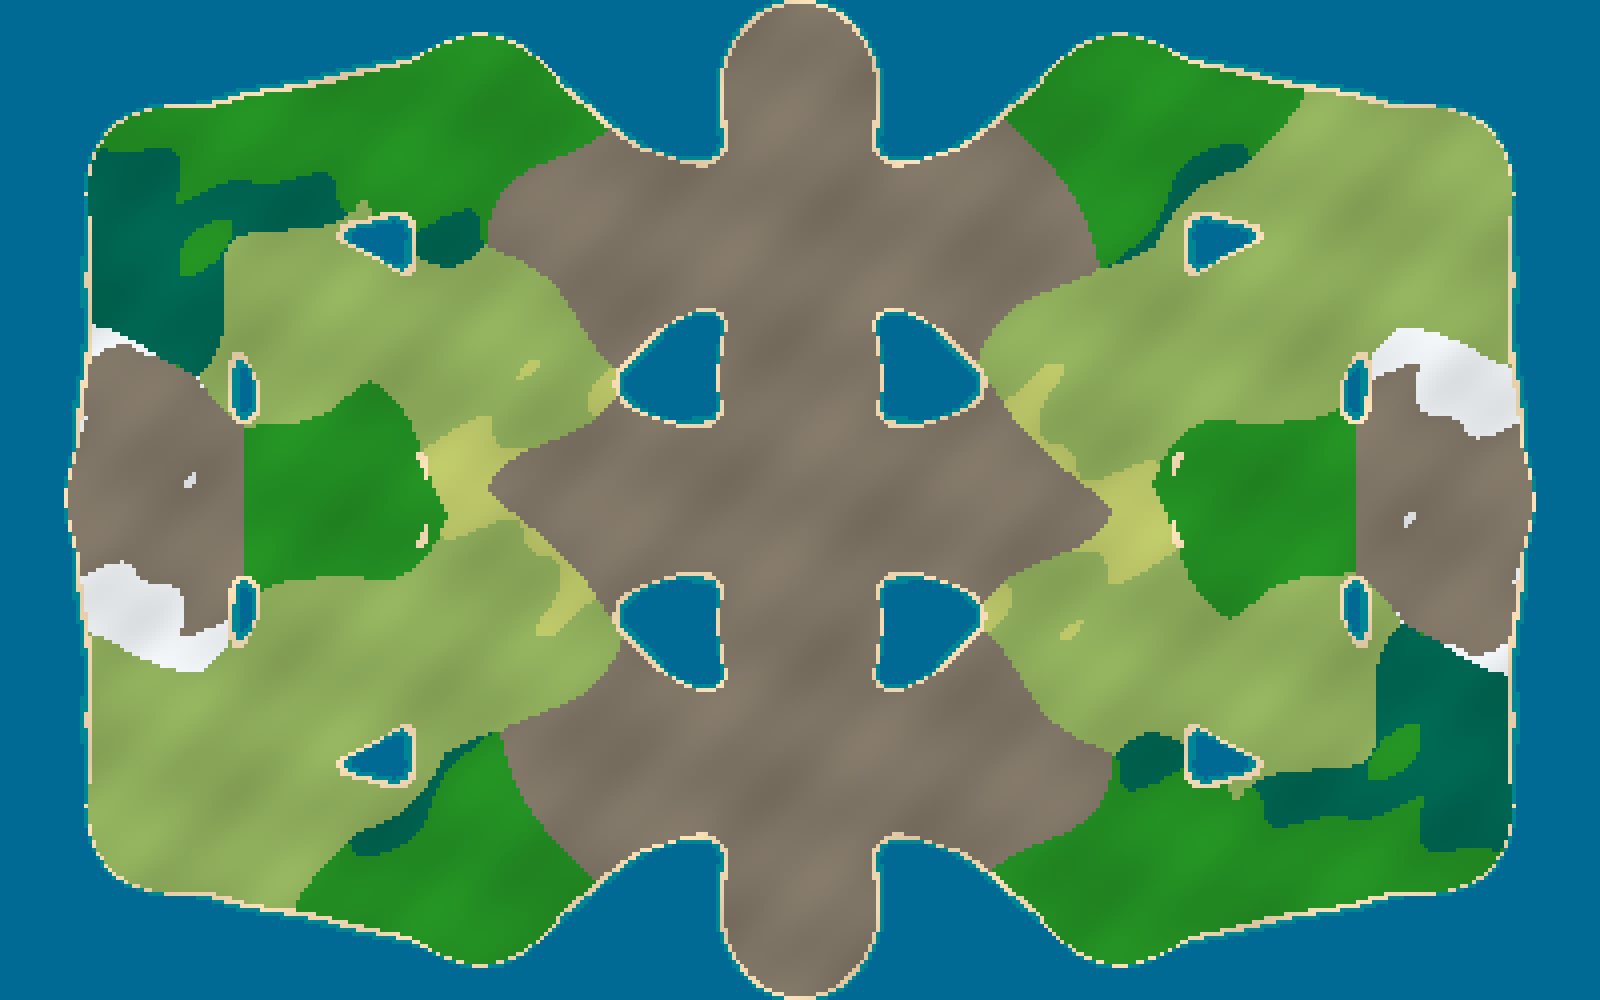
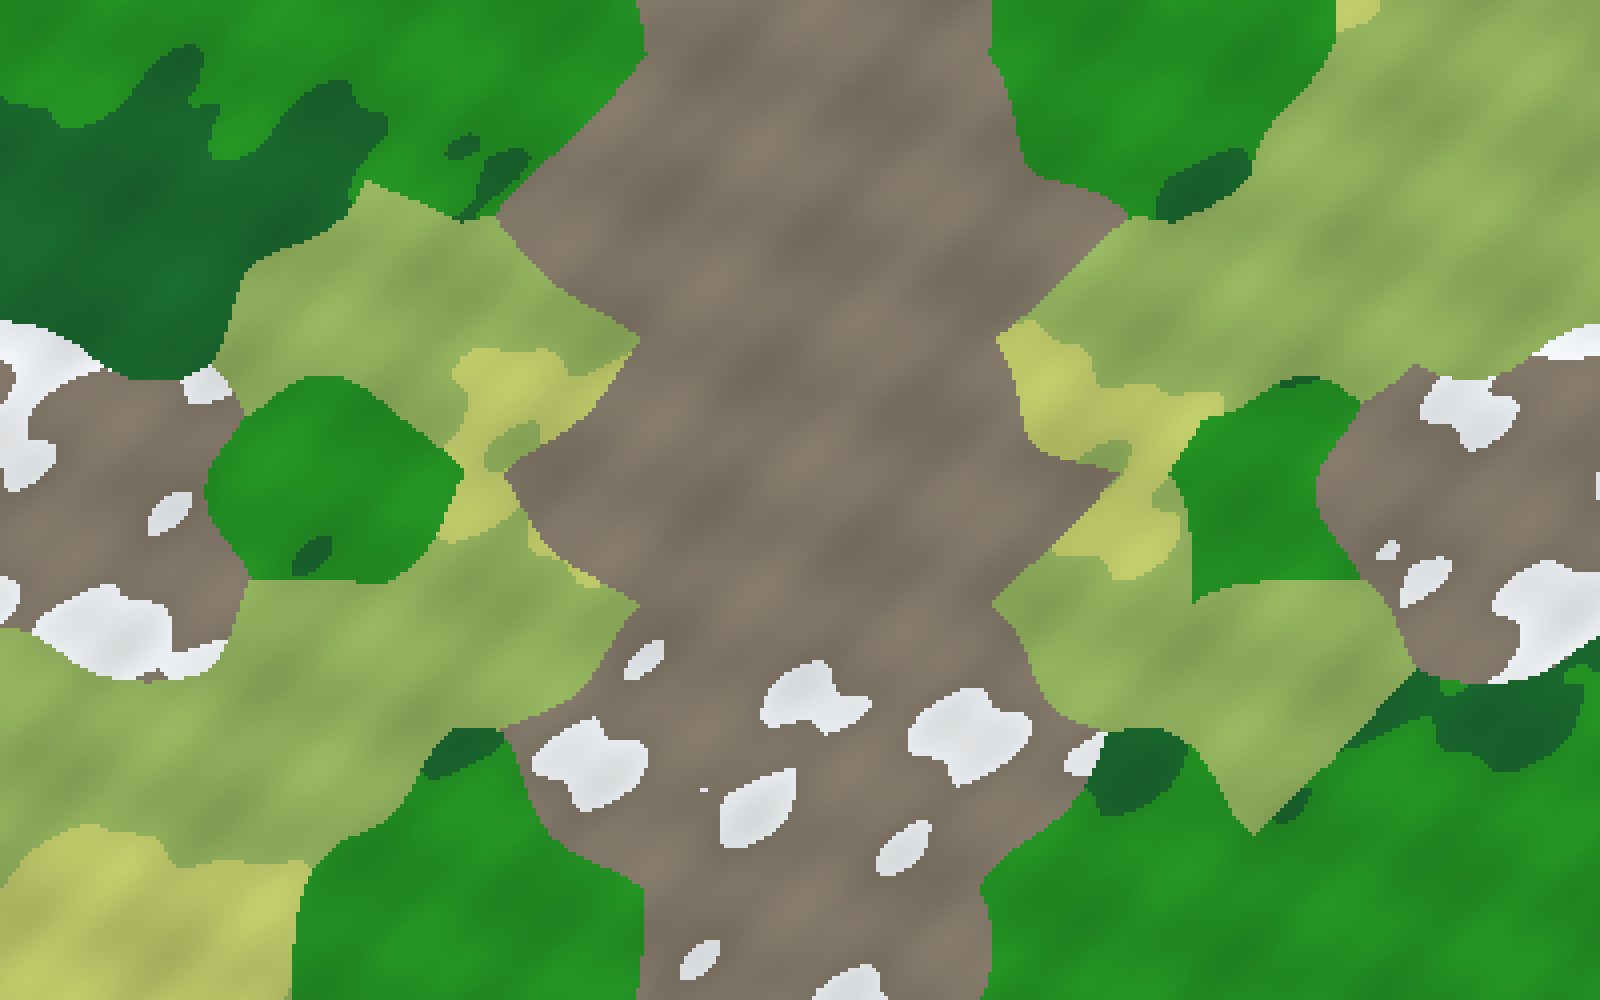
fix(maps): bake backgrounds without water; bundle baked backgrounds into the Docker client build (#269)

diff --git a/tools/maps/src/gow_maps/bake.py b/tools/maps/src/gow_maps/bake.py
@@ -1,14 +1,11 @@
 """Map background baker (MAP-05): ``maps/<id>.json`` -> ``maps/<id>.bg.png``.
 
-Formulas ported from the Pygame prototype map generator (git tag ``v0-pygame-prototype``,
-path ``rts_core/game_logic/World/MapGenerator.py``):
-
-- land is a metaball field: every city and every road adds density inside ``INFLUENCE_RADIUS``,
-  a cell is sea where the density plus a wave noise stays below a density-dependent threshold;
-- a thin band above the threshold is the shore;
-- the prototype temperature/moisture climate is replaced by the terrain of the nearest city
-  (Voronoi area of the node): plains, forest, mountains. The prototype moisture and detail noise
-  only pick a variant inside that terrain and shade it.
+Colours and noise formulas come from the Pygame prototype map generator (git tag
+``v0-pygame-prototype``, path ``rts_core/game_logic/World/MapGenerator.py``). There is no water
+(DEC-27, item 3: the owner finds it confusing): every cell is land. The biome comes from the
+terrain of the nearest city (Voronoi area of the node, borders warped so they are not straight):
+plains, forest, mountains. The prototype moisture and detail noise only pick a variant inside that
+terrain (steppe or savanna, forest or jungle, rock or snow) and shade it.
 
 The picture covers exactly the world rectangle ``[0, width] x [0, height]`` at one pixel per world
 unit, so the client stretches nothing: the sprite sits at ``(0, 0)`` with the map's own size.
@@ -16,9 +13,9 @@ The field is sampled on a ``STEP`` grid (as in the prototype) and every cell is 
 ``STEP x STEP`` block.
 
 The result is deterministic: noise offsets come from ``random.Random`` seeded by the map name and
-version (or an explicit seed), and the second half of the picture is the first half turned by
-180 degrees, the same symmetry as the map itself. The PNG is written with the standard library
-(zlib), no image library is needed.
+version (or an explicit seed). The picture is not required to be symmetric (DEC-27, item 1): every
+cell looks up its own nearest node. The PNG is written with the standard library (zlib), no image
+library is needed.
 """
 
 import hashlib
@@ -26,7 +23,6 @@ import math
 import random
 import struct
 import zlib
-from collections.abc import Callable
 from dataclasses import dataclass
 from enum import StrEnum
 from pathlib import Path
@@ -34,19 +30,11 @@ from pathlib import Path
 from gow_sim.maps import MapDef, Terrain
 
 STEP = 4  # world units per sampled cell (prototype MapGenerator.STEP)
-INFLUENCE_RADIUS = 95.0  # prototype MapGenerator.INFLUENCE_RADIUS
-LAND_THRESHOLD = 0.15  # prototype MapGenerator.LAND_THRESHOLD
-SHORE_BAND = 0.05  # prototype: total density below LAND_THRESHOLD + 0.05 is the shore
-SHALLOW_BAND = 0.06  # sea this close to the threshold is drawn as shallow water
-NODE_WEIGHT = 0.35  # prototype: a city adds 0.35 of a road's density
 SNOW_MOISTURE = 0.7  # mountain cells this moist are snow (prototype: cold and moist is snow)
 WARP = 40.0  # world units: how far the borders between node areas wander
 
 
 class Biome(StrEnum):
-    DEEP_SEA = "deep_sea"
-    SHALLOW_SEA = "shallow_sea"
-    BEACH = "beach"
     STEPPE = "steppe"
     SAVANNA = "savanna"
     FOREST = "forest"
@@ -57,18 +45,15 @@ class Biome(StrEnum):
 
 # Prototype palette (rts_core/system/ChunkManager.py) where a prototype biome fits.
 BIOME_COLOUR: dict[Biome, tuple[int, int, int]] = {
-    Biome.DEEP_SEA: (0, 105, 148),
-    Biome.SHALLOW_SEA: (0, 133, 148),
-    Biome.BEACH: (238, 214, 175),
     Biome.STEPPE: (140, 170, 90),
     Biome.SAVANNA: (180, 190, 100),
     Biome.FOREST: (34, 139, 34),
-    Biome.JUNGLE: (0, 100, 80),
+    Biome.JUNGLE: (25, 100, 45),  # prototype (0, 100, 80) is teal and reads as water (DEC-27)
     Biome.ROCK: (125, 115, 100),
     Biome.SNOW: (235, 238, 240),
 }
 
-# Land biomes each terrain may produce; the shore (BEACH) belongs to every terrain.
+# Land biomes each terrain may produce.
 TERRAIN_BIOMES: dict[Terrain, frozenset[Biome]] = {
     Terrain.PLAINS: frozenset({Biome.STEPPE, Biome.SAVANNA}),
     Terrain.FOREST: frozenset({Biome.FOREST, Biome.JUNGLE}),
@@ -84,58 +69,31 @@ class Cell:
 
 @dataclass(frozen=True, slots=True)
 class _Noise:
-    """Prototype noise fields, made continuous across the rot180 seam of the picture.
+    """Prototype noise fields; ``x`` and ``y`` are the random offsets of the map."""
 
-    The picture is mirrored at its centre, so a raw noise field would jump there. Every field is
-    averaged with its own rot180 image (``symmetric``); the terrain warp is antisymmetric
-    instead, so a point and its mirror look up mirrored nodes.
-    """
-
-    island: float
     x: float
     y: float
-    width: int
-    height: int
 
-    def _wave(self, x: float, y: float) -> float:
-        return math.sin(x * 0.04 + self.island) * math.cos(y * 0.04 - self.island) * 0.04
-
-    def _detail(self, x: float, y: float) -> float:
+    def detail(self, x: float, y: float) -> float:
         return (
             math.sin(x * 0.035 + y * 0.015 + self.x) * 0.4
             + math.cos(x * 0.012 - y * 0.042 + self.y) * 0.4
             + math.sin((x + y) * 0.071) * 0.2
         ) * 0.18
 
-    def _moisture(self, x: float, y: float) -> float:
+    def moisture(self, x: float, y: float) -> float:
         mx = self.x + 3700
         base = (
             math.cos(x * 0.004 + mx) * math.sin(y * 0.004 + self.y) * 0.65
             + math.cos(y * 0.013 + self.y) * 0.35
         )
-        return (base + 1.0) / 2.0 - self._detail(x, y)
-
-    def _warp(self, x: float, y: float) -> tuple[float, float]:
-        return (
-            math.sin(y * 0.021 + self.x) * math.cos(x * 0.017 - self.y),
-            math.cos(x * 0.019 + self.y) * math.sin(y * 0.023 - self.x),
-        )
-
-    def _symmetric(self, field: Callable[[float, float], float], x: float, y: float) -> float:
-        return (field(x, y) + field(self.width - x, self.height - y)) / 2
-
-    def wave(self, x: float, y: float) -> float:
-        return self._symmetric(self._wave, x, y)
-
-    def detail(self, x: float, y: float) -> float:
-        return self._symmetric(self._detail, x, y)
-
-    def moisture(self, x: float, y: float) -> float:
-        return self._symmetric(self._moisture, x, y)
+        return (base + 1.0) / 2.0 - self.detail(x, y)
 
     def warp(self, x: float, y: float) -> tuple[float, float]:
-        (ax, ay), (bx, by) = self._warp(x, y), self._warp(self.width - x, self.height - y)
-        return (ax - bx) / 2 * WARP, (ay - by) / 2 * WARP
+        return (
+            math.sin(y * 0.021 + self.x) * math.cos(x * 0.017 - self.y) * WARP,
+            math.cos(x * 0.019 + self.y) * math.sin(y * 0.023 - self.x) * WARP,
+        )
 
 
 def background_path(map_path: str | Path) -> Path:
@@ -150,48 +108,8 @@ def map_seed(mapdef: MapDef) -> int:
     return int.from_bytes(hashlib.blake2b(key, digest_size=8).digest(), "big")
 
 
-def _density(mapdef: MapDef, cols: int, rows: int) -> list[float]:
-    """Metaball density per cell: cities and roads splatted inside ``INFLUENCE_RADIUS``."""
-    radius = INFLUENCE_RADIUS
-    density = [0.0] * (cols * rows)
-
-    def splat(x0: float, y0: float, x1: float, y1: float, weight: float) -> None:
-        dx, dy = x1 - x0, y1 - y0
-        seg_len_sq = dx * dx + dy * dy
-        gx0 = max(0, int((min(x0, x1) - radius) // STEP))
-        gx1 = min(cols - 1, int((max(x0, x1) + radius) // STEP))
-        gy0 = max(0, int((min(y0, y1) - radius) // STEP))
-        gy1 = min(rows - 1, int((max(y0, y1) + radius) // STEP))
-        for gy in range(gy0, gy1 + 1):
-            y = gy * STEP + STEP / 2
-            for gx in range(gx0, gx1 + 1):
-                x = gx * STEP + STEP / 2
-                t = 0.0
-                if seg_len_sq > 0:
-                    t = max(0.0, min(1.0, ((x - x0) * dx + (y - y0) * dy) / seg_len_sq))
-                d = math.hypot(x0 + t * dx - x, y0 + t * dy - y)
-                if d < radius:
-                    density[gy * cols + gx] += weight * (1.0 - (d / radius) ** 2) ** 2
-
-    for node in mapdef.nodes:
-        splat(node.x, node.y, node.x, node.y, NODE_WEIGHT)
-    for edge in mapdef.edges:
-        a, b = mapdef.nodes[edge.a], mapdef.nodes[edge.b]
-        splat(a.x, a.y, b.x, b.y, 1.0)
-    return density
-
-
-def _cell(mapdef: MapDef, x: float, y: float, density: float, noise: _Noise) -> Cell:
-    total = density + noise.wave(x, y)
-    threshold = LAND_THRESHOLD - density * 0.15
-    if total <= threshold:
-        deep = total <= threshold - SHALLOW_BAND
-        return Cell(Biome.DEEP_SEA if deep else Biome.SHALLOW_SEA, 1.0)
-
-    detail = noise.detail(x, y)
-    shade = 1.0 + detail * 0.5
-    if total < LAND_THRESHOLD + SHORE_BAND:
-        return Cell(Biome.BEACH, shade)
+def _cell(mapdef: MapDef, x: float, y: float, noise: _Noise) -> Cell:
+    shade = 1.0 + noise.detail(x, y) * 0.5
     # The area of a node is its Voronoi cell, with borders warped so they are not straight.
     dx, dy = noise.warp(x, y)
     wx, wy = x + dx, y + dy
@@ -214,18 +132,11 @@ def bake_cells(mapdef: MapDef, seed: int | None = None) -> list[list[Cell]]:
         )
     cols, rows = width // STEP, height // STEP
     rng = random.Random(map_seed(mapdef) if seed is None else seed)
-    offsets = (rng.uniform(0, 1000), rng.uniform(-5000, 5000), rng.uniform(-5000, 5000))
-    noise = _Noise(*offsets, width, height)
-    density = _density(mapdef, cols, rows)
-    count = cols * rows
-    # Cell i and cell count-1-i are turned into each other by rot180 (their centres are
-    # (x, y) and (width - x, height - y)), so the second half is the first one reversed.
-    half: list[Cell] = []
-    for i in range((count + 1) // 2):
-        gy, gx = divmod(i, cols)
-        half.append(_cell(mapdef, gx * STEP + STEP / 2, gy * STEP + STEP / 2, density[i], noise))
-    cells = half + half[: count // 2][::-1]
-    return [cells[r * cols : (r + 1) * cols] for r in range(rows)]
+    noise = _Noise(rng.uniform(-5000, 5000), rng.uniform(-5000, 5000))
+    return [
+        [_cell(mapdef, gx * STEP + STEP / 2, gy * STEP + STEP / 2, noise) for gx in range(cols)]
+        for gy in range(rows)
+    ]
 
 
 def _colour(cell: Cell) -> bytes:

diff --git a/tools/maps/tests/test_bake.py b/tools/maps/tests/test_bake.py
@@ -1,4 +1,4 @@
-"""Map background baker (MAP-05): terrain biomes, sea, determinism, committed PNGs."""
+"""Map background baker (MAP-05, DEC-27): land biomes by terrain, no water, determinism, PNGs."""
 
 import json
 import math
@@ -10,7 +10,7 @@ from pathlib import Path
 import pytest
 
 from gow_maps.bake import (
-    INFLUENCE_RADIUS,
+    BIOME_COLOUR,
     STEP,
     TERRAIN_BIOMES,
     WARP,
@@ -31,7 +31,7 @@ TEST_MAPS = ROOT / "packages" / "sim" / "tests" / "maps"
 POOL = ["arteriya", "pautina", "pereval"]
 ALL_MAPS = [MAPS / f"{name}.json" for name in POOL] + sorted(TEST_MAPS.glob("*.json"))
 MAX_PNG_BYTES = 1_500_000  # issue MAP-05: every background is at most 1.5 MB
-SEA = {Biome.DEEP_SEA, Biome.SHALLOW_SEA}
+LAND = frozenset(biome for biomes in TERRAIN_BIOMES.values() for biome in biomes)
 
 
 @cache
@@ -68,12 +68,6 @@ def _centre(gx: int, gy: int) -> tuple[float, float]:
     return gx * STEP + STEP / 2, gy * STEP + STEP / 2
 
 
-def _segment_distance(px: float, py: float, a: tuple[int, int], b: tuple[int, int]) -> float:
-    dx, dy = b[0] - a[0], b[1] - a[1]
-    t = max(0.0, min(1.0, ((px - a[0]) * dx + (py - a[1]) * dy) / (dx * dx + dy * dy)))
-    return math.hypot(a[0] + t * dx - px, a[1] + t * dy - py)
-
-
 @pytest.mark.parametrize("path", ALL_MAPS, ids=lambda p: p.stem)
 def test_grid_covers_the_world_rectangle(path: Path) -> None:
     mapdef, cells = _map(path), _cells(path)
@@ -84,7 +78,7 @@ def test_grid_covers_the_world_rectangle(path: Path) -> None:
 @pytest.mark.parametrize("path", ALL_MAPS, ids=lambda p: p.stem)
 def test_node_area_has_the_node_terrain(path: Path) -> None:
     # Near a node (closer than half the distance to any other node, minus the border warp)
-    # every land cell belongs to that node's area, so its biome comes from the node's terrain.
+    # every cell belongs to that node's area, so its biome comes from the node's terrain.
     mapdef, cells = _map(path), _cells(path)
     for node in mapdef.nodes:
         others = min(
@@ -92,7 +86,7 @@ def test_node_area_has_the_node_terrain(path: Path) -> None:
         )
         reach = others / 2 - WARP - STEP
         assert reach > STEP  # the check below looks at some cells around every node
-        allowed = TERRAIN_BIOMES[node.terrain] | {Biome.BEACH} | SEA
+        allowed = TERRAIN_BIOMES[node.terrain]
         for gy, row in enumerate(cells):
             for gx, cell in enumerate(row):
                 x, y = _centre(gx, gy)
@@ -103,30 +97,22 @@ def test_node_area_has_the_node_terrain(path: Path) -> None:
         assert own.biome in TERRAIN_BIOMES[node.terrain]
 
 
-@pytest.mark.parametrize("path", ALL_MAPS, ids=lambda p: p.stem)
-def test_far_from_cities_and_roads_is_sea(path: Path) -> None:
-    mapdef, cells = _map(path), _cells(path)
-    points = [(n.x, n.y) for n in mapdef.nodes]
-    roads = [(points[e.a], points[e.b]) for e in mapdef.edges]
-    far = 0
-    # Every third cell in each direction: enough to cover the sea, fast enough for CI.
-    for gy in range(0, len(cells), 3):
-        for gx in range(0, len(cells[0]), 3):
-            cell, (x, y) = cells[gy][gx], _centre(gx, gy)
-            near_city = any(math.hypot(px - x, py - y) < INFLUENCE_RADIUS for px, py in points)
-            near_road = any(_segment_distance(x, y, a, b) < INFLUENCE_RADIUS for a, b in roads)
-            if not near_city and not near_road:
-                far += 1
-                assert cell.biome in SEA, (gx, gy, cell.biome)
-    assert far > 0
-    assert cells[0][0].biome in SEA
+def test_there_is_no_water_biome() -> None:
+    # DEC-27, item 3: no deep sea, shallow sea or beach, only the land biomes of the terrains.
+    assert set(Biome) == LAND
+    assert {biome.value for biome in Biome} == {
+        "steppe",
+        "savanna",
+        "forest",
+        "jungle",
+        "rock",
+        "snow",
+    }
 
 
 @pytest.mark.parametrize("path", ALL_MAPS, ids=lambda p: p.stem)
-def test_background_is_rot180_symmetric(path: Path) -> None:
-    cells = _cells(path)
-    flat = [cell for row in cells for cell in row]
-    assert flat == flat[::-1]
+def test_every_cell_is_land(path: Path) -> None:
+    assert {cell.biome for row in _cells(path) for cell in row} <= LAND
 
 
 def test_bake_is_deterministic() -> None:
@@ -175,6 +161,26 @@ def test_committed_background_is_up_to_date(name: str) -> None:
     mapdef = _map(path)
     # Compared as pixels, not bytes: zlib builds may compress the same pixels differently.
     assert _decode_png(png) == (mapdef.meta.width, mapdef.meta.height, render_rgb(mapdef))
+
+
+def _is_land_pixel(pixel: bytes) -> bool:
+    # A land pixel is a biome colour times the detail shade (1 +- 0.09), rounded.
+    return any(
+        all(c * 0.9 - 1 <= p <= min(255, c * 1.1 + 1) for p, c in zip(pixel, colour, strict=True))
+        for biome, colour in BIOME_COLOUR.items()
+        if biome in LAND
+    )
+
+
+@pytest.mark.parametrize("name", POOL)
+def test_committed_background_has_no_water_pixels(name: str) -> None:
+    # Example 12 of DEC-27: not a single sea, shallow water or beach pixel. The colours of the
+    # three water biomes of the old baker (deep sea, shallow sea, beach) match no land colour.
+    water_or_beach = [bytes(c) for c in [(0, 105, 148), (0, 133, 148), (238, 214, 175)]]
+    assert not any(_is_land_pixel(pixel) for pixel in water_or_beach)
+    _, _, rgb = _decode_png(background_path(MAPS / f"{name}.json").read_bytes())
+    pixels = {rgb[i : i + 3] for i in range(0, len(rgb), 3)}
+    assert all(_is_land_pixel(pixel) for pixel in pixels)
 
 
 def test_cli_bake_writes_next_to_the_map(

diff --git a/docs/design/mechanics.md b/docs/design/mechanics.md
@@ -1813,11 +1813,14 @@ CP без кода).
 8. **[отложено]** **Настоящие асимметричные карты** (разный граф или разные атрибуты у сторон):
    только позже и только для нерейтинговых матчей. Им нужен новый тай-брейк вместо зеркального
    `node_key` (AGENTS.md, 4.1, правило 6) и свой тест честности; без этого в MVP они не вводятся.
-9. **Задача реализации (расхождение Windows и Mac).** Владелец видит воду на фоне только на
-   Windows, в браузере на Mac её нет: запечённый фон на его машине, возможно, не загружается (на
-   Mac виден). Найти причину (запрос `GET /api/maps/{id}/background.png`, кэш,
-   CSP, формат и размер PNG, загрузка текстуры в PixiJS) независимо от того, что воду из фона
-   убирают; результат записать в issue реализации.
+9. **Расхождение Windows и Mac: найдено (#269).** Владелец видел воду на фоне только на Windows,
+   на Mac её не было. Причина: образ `caddy` собирал клиент, копируя в контекст только
+   `maps/*.json`, без `maps/*.bg.png` (`deploy/caddy.Dockerfile`); клиент берёт фоны из
+   `import.meta.glob('maps/*.bg.png')` при сборке, поэтому в Docker-стеке (на Mac) глоб пуст и
+   карта рисуется плоскими цветами рельефа, а клиент из репозитория (dev-сервер Vite) фон видит.
+   Сервер отдаёт фон правильно (`GET /api/maps/{id}/background.png` отвечает 200), но клиент к
+   этому адресу не обращается. Исправлено: Dockerfile копирует и фоны, проверка
+   `deploy/check-caddy.sh` ловит пустой глоб.
 
 Разобранные примеры. Карта 400 на 400, `travel_ticks_per_100_units = 30`. Тесты валидатора: «плохие»
 фикстуры по одной на строку.
@@ -1837,7 +1840,7 @@ CP без кода).
 | 11 | карта в 34 узла с порогами `size` 45..55 | `FAIL [size]` |
 | 12 | фон `bake` | ни одного пикселя моря, мелководья и пляжа; размер PNG ровно `width x height` |
 
-Что меняет реализация (инструменты карт, карты; клиент: только то, что найдёт п. 9): `gow_maps.validate`
+Что меняет реализация (инструменты карт, карты; п. 9 и `gow_maps.bake` без воды сделаны в #269): `gow_maps.validate`
 (`symmetry` без координат, `travel_ticks` 15 процентов, `size`), `gow_maps.mirror` (`mirror_x`,
 `mirror_y`, `self_mirror`), `gow_maps.bake` (без воды), новые или переделанные карты, `grid55` в
 бенчмарках, `maps/README.md`; симуляция и протокол не меняются (карта публична и читается как

diff --git a/maps/README.md b/maps/README.md
@@ -4,7 +4,7 @@
 
 Рядом с картой лежат превью `<id>.preview.png` (для людей) и фон `<id>.bg.png` (MAP-05, #70; его
 раздаёт сервер, рисует клиент). После любой правки карты: `uv run gow-maps preview maps/*.json` и
-`uv run gow-maps bake maps/*.json`.
+`uv run gow-maps bake maps/*.json`. Фон весь суша, без воды (DEC-27, #269).
 
 | Файл | Название | Узлов | Дорог | Своих на старте | Нейтральных, из них спорных | Путь столица → столица |
 |---|---|---|---|---|---|---|
